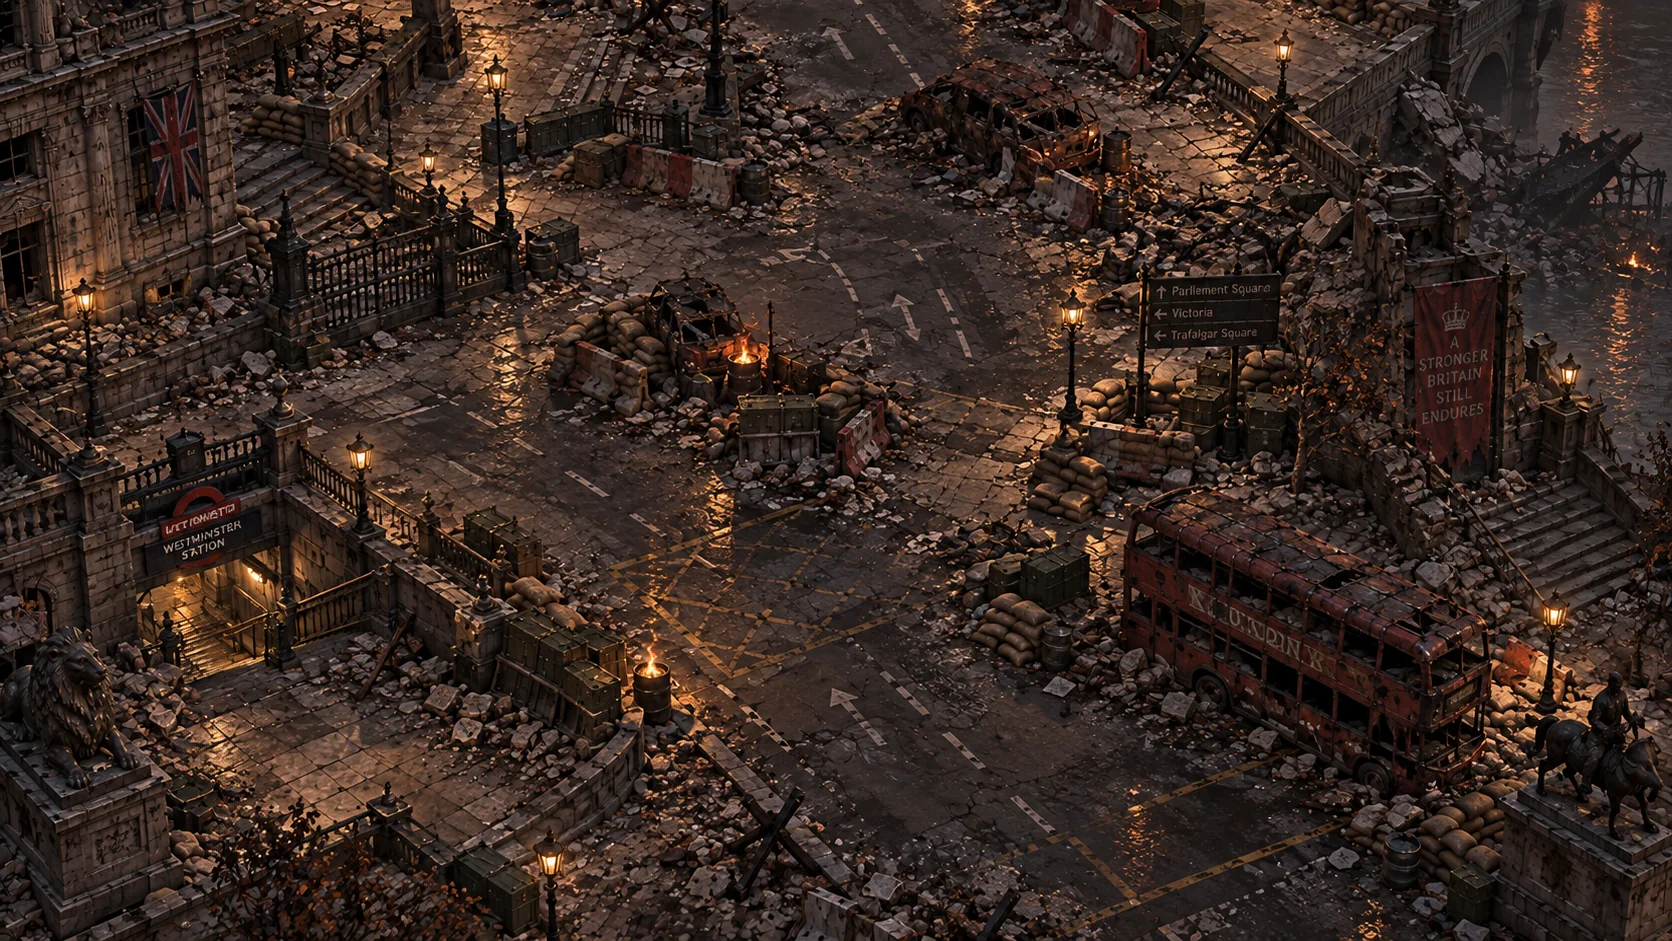
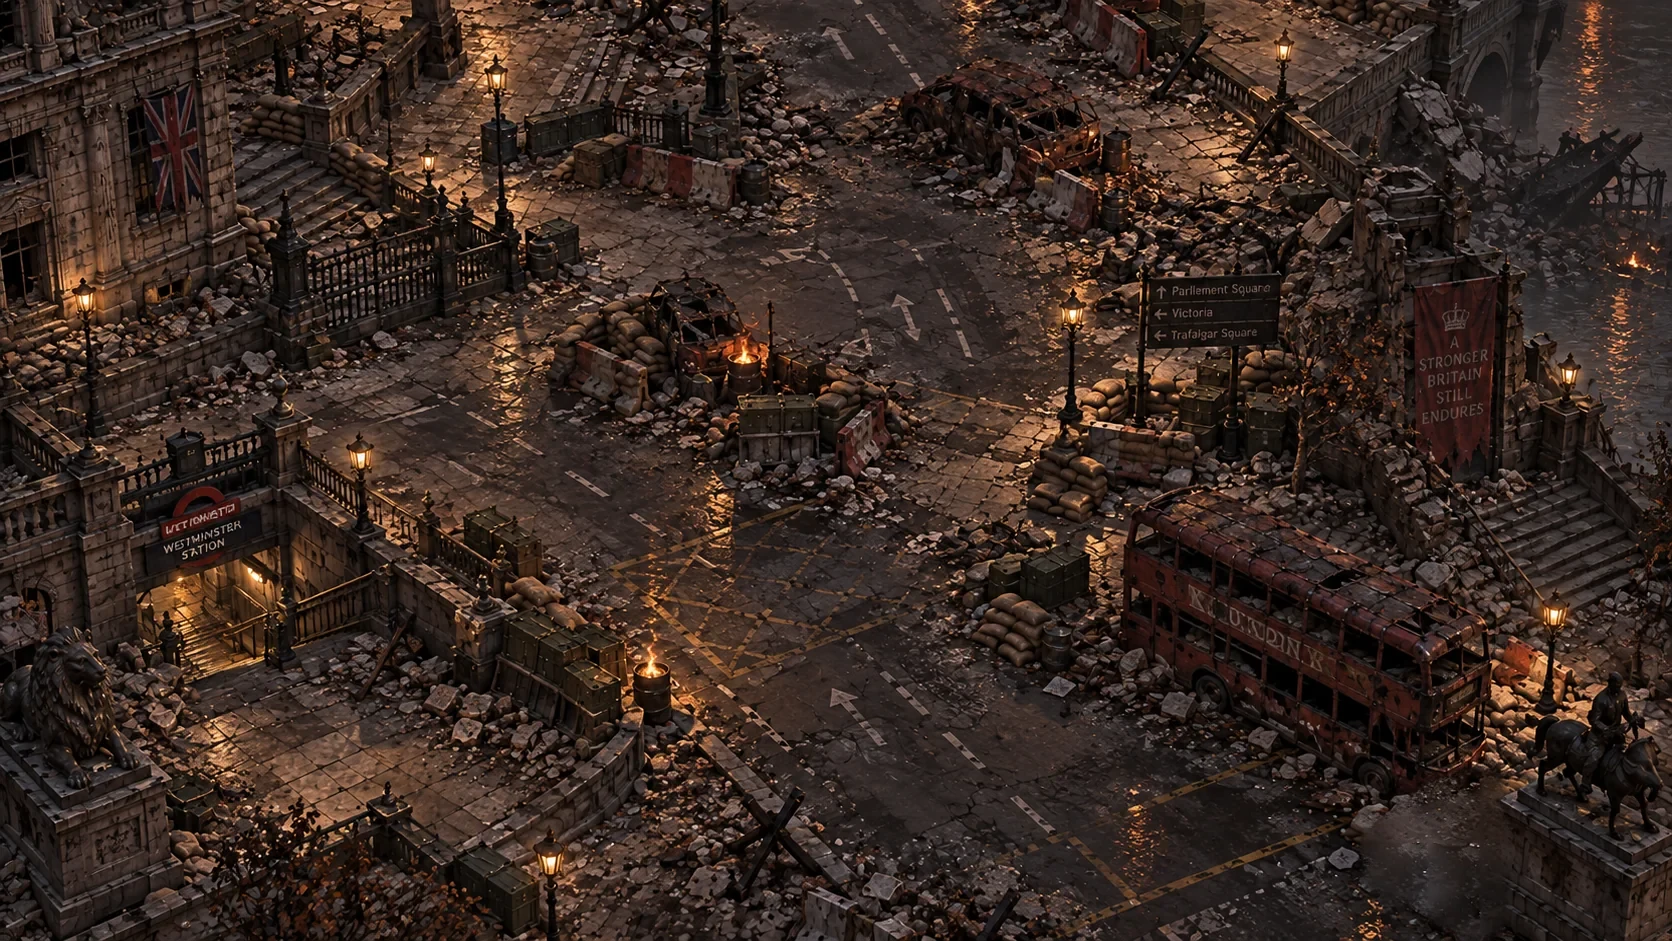
south: open the road north and past the statue plinth, paint out the sandbag pile (WIP, digest follows)

Changed region(s): [[0.8086, 0.8013, 0.9019, 1.0]]

diff --git a/Web/tests/data-areas.test.js b/Web/tests/data-areas.test.js
@@ -16,7 +16,7 @@ const raw = () => structuredClone(JSON.parse(rawText));
 const manifest = JSON.parse(fs.readFileSync(new URL("../public/world/manifest.json", import.meta.url)));
 
 test("the data file is pinned", () => {
[2 lines of base64/hex data omitted]
 });
 
 test("areaDefinitions and areaAssets equal the old in-code export (values and key order) except the one stale identity row, and are frozen", () => {

diff --git a/art/backdrop-paint-out/quilt.py b/art/backdrop-paint-out/quilt.py
@@ -28,6 +28,10 @@ for x0, y0, x1, y1 in rects:
 PAINT_MAX = 0.004
 hsv = cv2.cvtColor(img, cv2.COLOR_RGB2HSV)
 paint = ((hsv[..., 2] > 150) & (hsv[..., 1] < 90)).astype(np.uint8)
+if os.environ.get("QUILT_EXCLUDE_YELLOW"):  # south: the yellow road lines are saturated, so the test above misses them; they and the orange sparks are never copied
+    yellow = ((hsv[..., 0] >= 8) & (hsv[..., 0] <= 32) & (hsv[..., 1] > 90) & (hsv[..., 2] > 80)).astype(np.uint8)
+    yellow = cv2.morphologyEx(yellow, cv2.MORPH_OPEN, np.ones((3, 3), np.uint8))  # lines are runs of pixels, not specks
+    paint |= cv2.dilate(yellow, np.ones((11, 11), np.uint8))  # the faint ends of a line sit beside its bright pixels
 P, STEP, BAND, TOPK, REUSE = 72, 52, 95, 8, 28
 rng = np.random.default_rng(7)
 paint_share = cv2.boxFilter(paint.astype(np.float32), -1, (P, P))  # share of marking pixels in the patch around each centre

diff --git a/art/backdrop-paint-out/paint.py b/art/backdrop-paint-out/paint.py
@@ -10,7 +10,7 @@ from simple_lama_inpainting import SimpleLama
 
 root = "/Users/domininclynch/Developer/armagedom/.claude/worktrees/arma-chars-f7f72b"
 area, mask_file, out = sys.argv[1:4]
-src = Image.open(f"{root}/Web/public/world/{area}/backdrop-phone.webp").convert("RGB")
+src = Image.open(sys.argv[4] if len(sys.argv) > 4 else f"{root}/Web/public/world/{area}/backdrop-phone.webp").convert("RGB")  # optional 4th argument: the source picture
 w, h = src.size
 mask = np.zeros((h, w), np.uint8)
 for poly in json.load(open(mask_file)):
